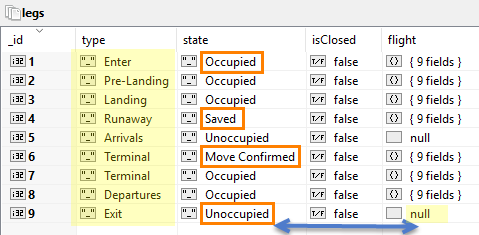
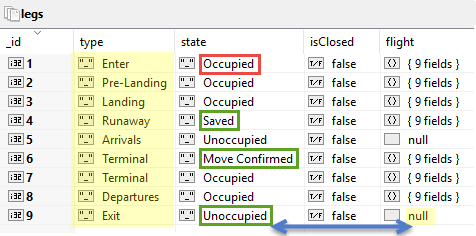
Add/Edit images

Changed region(s): [[0.0, 0.0, 1.0, 1.0]]

diff --git a/README.md b/README.md
@@ -39,7 +39,7 @@ Features/Technologies/Tools:
 	4. click "OK"
 	5. click "OK" again
 		
-	> Alternativly you can run the following SETX command in cmd.exe, **but be aware(!) that SETX truncates the stored path to 1024 bytes, potentially corrupting your PATH environment variable**:
+	> Alternativly you can run the following SETX command in cmd.exe, **but be aware(!) - SETX truncates the stored path to 1024 bytes, potentially corrupting your PATH environment variable**:
 		
 	> SETX /m PATH "%PATH%;C:\Program Files\MongoDB\Server\3.4\bin"
 
@@ -48,22 +48,22 @@ Features/Technologies/Tools:
 	- C:\data\log
 
 - Optional:
-	- [Download](https://studio3t.com/download-thank-you/?OS=win64) & Install Studio 3T (MongoDB Management Studio, i.e. GUI for mongoDB):
+	- Download  & Install GUI application for mongoDB, e.g. [Studio 3T](https://studio3t.com/download-thank-you/?OS=win64)
 
 ### 2. Install packages (this might take several minutes, depending on your hardware):
 - Option 1: Open command prompt in 'control-tower' folder and type 'npm install'.
 - Option 2: Double click on 'install.bat' in 'flight-control' folder.
 		
-Easy Install
-![alt text](https://github.com/PrisonerM13/flight-control/blob/master/gif/EasyInstallation.gif "Easy Installation")
+	#### Easy Installation
+	![alt text](https://github.com/PrisonerM13/flight-control/blob/master/gif/EasyInstallation.gif "Easy Installation")
 		
 ### 3. Run program:
 - Option 1: Open command prompt in 'control-tower' folder and type 'npm start'.
 - Option 2: Double click on 'run.bat' in 'flight-control' folder.
 
-Easy Startup		
-![alt text](https://github.com/PrisonerM13/flight-control/blob/master/gif/EasyStartup.gif "Easy Startup")
-
+	#### Easy Startup
+	![alt text](https://github.com/PrisonerM13/flight-control/blob/master/gif/EasyStartup.gif "Easy Startup")
+		
 > "npm install" & "npm start" respectively install & run all 3 projects (control-tower, simulator and DAL).
 		
 > While mongoDB is loaded (mongod) for the first time, you will be asked to "Allow access". Press "OK".
@@ -75,12 +75,14 @@ Simulating radio transmissions between control tower and flights
 ![alt text](https://github.com/PrisonerM13/flight-control/blob/master/gif/Communication.gif "Communication")
 
 ### Settings Panel
+![alt text](https://github.com/PrisonerM13/flight-control/blob/master/images/Settings.png "Settings Panel")
+		
 - Simulator Switch - Start/Stop generation of new flights.
 - Speed Percentage - Speed range as percentage from max. speed (zero delay time)
 		
 	> Planes speed is not constant. It's chosen randomly for each move between airport legs.
 		
-	> The bigger the difference between min and max speed, the bigger the chance of collisions in 'Risky' mode (see below).
+	> The bigger the difference between min and max speed, the bigger the chance of collisions in 'Risky' safety mode (see below).
 		
 	> Recommended values: min: ~92%, max: ~98%.
 - Safety Mode:
@@ -92,16 +94,16 @@ Simulating radio transmissions between control tower and flights
 
 ### Queues Panel
 - Right click on a flight code in "Arrivals" or "Emergencies" queues to set emergency on/off.
+		
+	#### Set Emergency On/Off
+	![alt text](https://github.com/PrisonerM13/flight-control/blob/master/gif/Emergency.gif "Set Emergency On/Off")
 
 ### Map Panel
 - Right click on a plane image in legs 1-3 (in air arriving flights) to set emergency on/off.
 - Right click a leg (1-9) to close/reopen it.
 		
-Set Emergency On/Off
-![alt text](https://github.com/PrisonerM13/flight-control/blob/master/gif/Emergency.gif "Set Emergency On/Off")
-
-Close/Open Leg
-![alt text](https://github.com/PrisonerM13/flight-control/blob/master/gif/CloseLegOpenLeg.gif "Close Leg/Open Leg")
+	#### Close/Open Leg
+	![alt text](https://github.com/PrisonerM13/flight-control/blob/master/gif/CloseLegOpenLeg.gif "Close Leg/Open Leg")
 
 ## DB structure:
 ![alt text](https://github.com/PrisonerM13/flight-control/blob/master/images/Diagram.png "DB Schema")
@@ -116,22 +118,23 @@ Close/Open Leg
 | simulatorarrivals   | Simulator's arrivals storage, initiated from a data file in simulator project. A flight that enters airport or added to arrivals queue is deleted from this collection. When the collection is empty, it is refilled again from the project's data file.
 | simulatordepartures | Same as simulator's arrivals storage, but for departures.
 		
-'legs' collection's 'flight' field, hosts both arriving and departing flights, discriminated by key named 'direction'
-![alt text](https://github.com/PrisonerM13/flight-control/blob/master/images/legs.png "Legs Collection")
+#### 'legs' collection's 'flight' field, hosts both arriving and departing flights, discriminated by key named 'direction':
 ![alt text](https://github.com/PrisonerM13/flight-control/blob/master/images/legs-details.png "Legs Collection Details")
 		
-'flightLog' collection hosts both arriving and departing flights, discriminated by key named 'direction'.
+#### 'flightLog' collection hosts both arriving and departing flights, discriminated by key named 'direction':
 ![alt text](https://github.com/PrisonerM13/flight-control/blob/master/images/flightLog.png "flightLog Collection")
 		
 ### Leg States
-| State             | Description  
-| ------------------| ------------- 
-| Unoccupied        | 
-| MoveDirectionSent | A flight was directed to enter leg, but has not yet confirmed.
-| MoveConfirmed     | A flight confirmed directions to enter leg.
-| MarkedForSave     | Leg should be saved for a flight, once that flight confirms directions.
-| Saved             | Leg is saved for a flight that confirmed directions.
-| Occupied          | Leg is occupied by a flight.
+| State               | Description  
+| ------------------- | -----------
+| Unoccupied          | 
+| Move Direction Sent | A flight was directed to enter leg, but has not yet confirmed.
+| Move Confirmed      | A flight confirmed directions to enter leg.
+| Marked For Save     | Leg should be saved for a flight, once that flight confirms directions.
+| Saved               | Leg is saved for a flight that confirmed directions.
+| Occupied            | Leg is occupied by a flight.
+		
+![alt text](https://github.com/PrisonerM13/flight-control/blob/master/images/legs.png "Legs Collection")
 		
 ### Flight Status
 | Status   | Description
